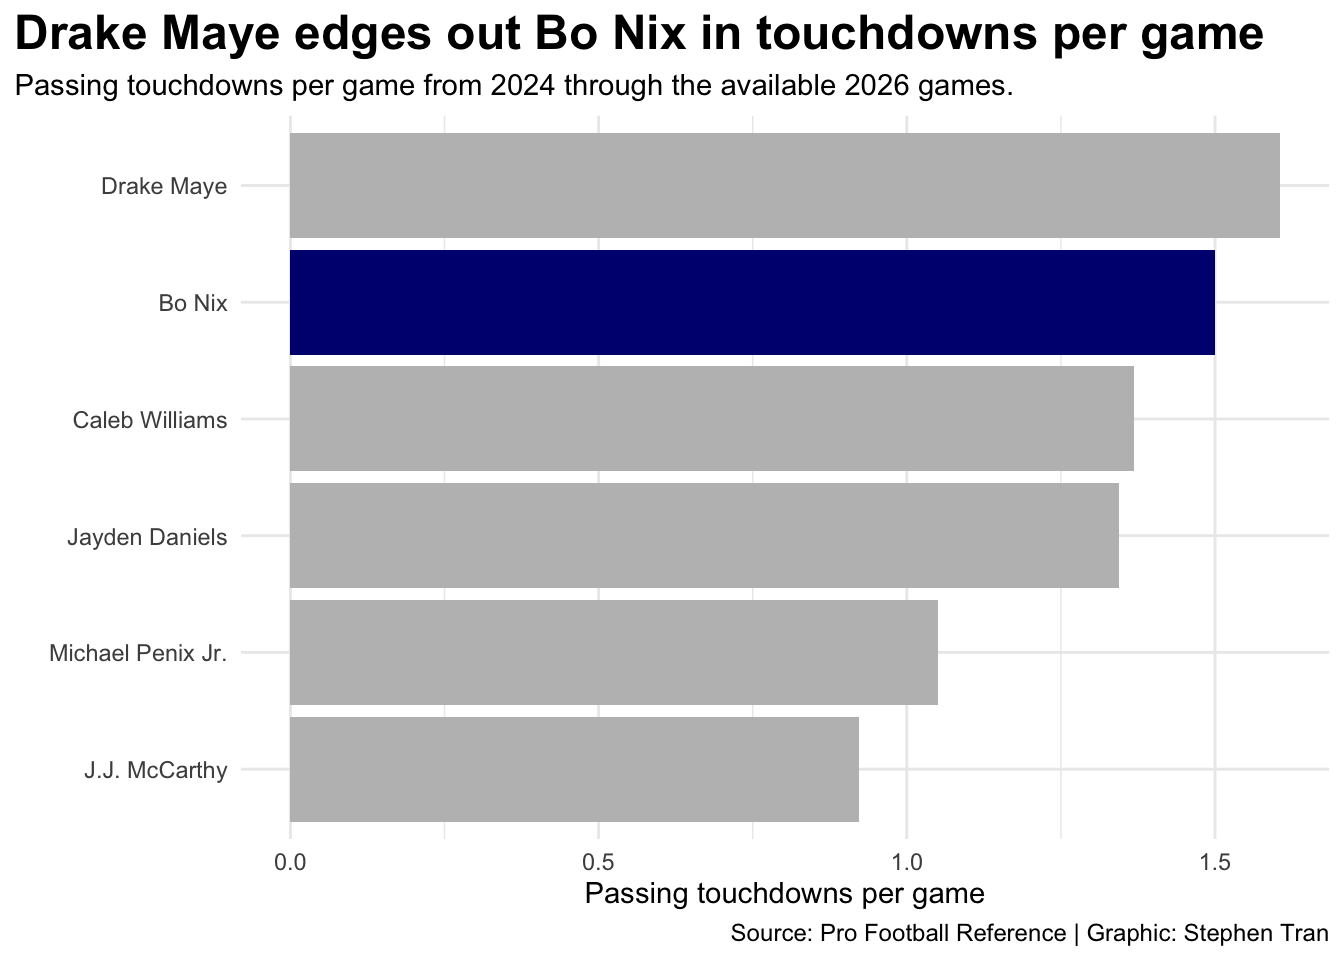
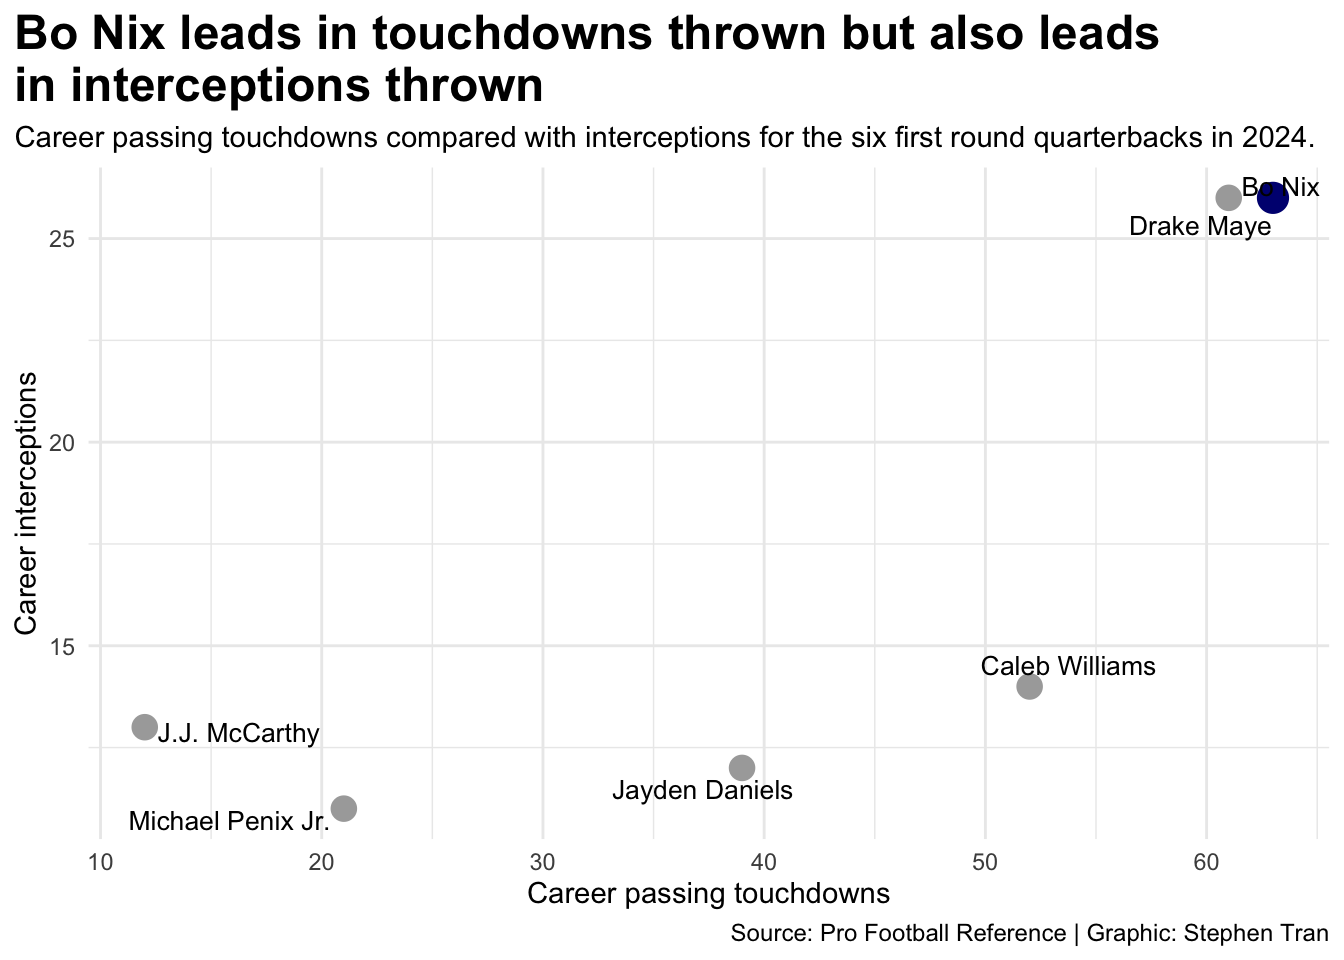
release candiate 1

diff --git a/posts/Bo-Nix-2024-qb-draft-class/index.html b/posts/Bo-Nix-2024-qb-draft-class/index.html
@@ -364,7 +364,11 @@ pre > code.sourceCode > span > a:first-child::before { text-decoration: underlin
 
 
 
-<p>Bo Nix is one of the most polarizing players in the NFL.</p>
+<p>The quarterback position is arguably not only the most important position in football, but the most important position in any major sport. Because of how important the quarterback is to an NFL team, there is heavy pressure on them to win games and play well.</p>
+<p>Ever since Peyton Manning retired after the Broncos victory in Super Bowl 50, the Broncos have gone through 13 different quarterbacks (yes that includes Kendall Hinton who played quarterback after all of the quarterbacks got COVID) before drafting Bo Nix.</p>
+<p>Coming out of college, many draft analysts questioned his age, the amount of short passes he’s thrown in Oregon and his upside. In a draft that was considered deep in the quarterback position, Bo Nix was the last quarterback taken in the first round when the Broncos drafted him with the 12th pick of the 2024 NFL Draft.</p>
+<p>Like the other quarterbacks, Nix has been constantly compared to the other quarterbacks taken in the first round of the 2024 Draft. Caleb Williams, the first overall pick, has flashed his upside in his first year with Ben Johnson as head coach and is now on the Madden 27 cover, Jayden Daniels, the second overall pick, won Offensive Rookie of the Year and his rookie year is considered to be one of the greatest rookie seasons for a quarterback. However, a slight dop in play and injuries in his second year have made people question his longevity. The third overall pick, Drake Maye came second in MVP voting and made the Super Bowl in just his second year although fans point out his historically easy schedule and struggles in the postseason. The Falcons surprised the whole league when they made Michael Penix Jr.&nbsp;the eighth overall pick and the fourth quarterback taken after paying Kirk Cousins. However, inconsistent play in his sophomore season in the NFL led the Falcons to signing Tua Tagovailoa to compete with Penix and his future has been in question despite being the starter in 2026. J.J. McCarthy, the fifth quarterback taken and the tenth overall pick by the Vikings. missed his whole rookie season due to injury and struggled mightily in his first year as starter. He has since been traded to the New York Giants, hoping to revive his career after losing the starting job to Kyler Murray.</p>
+<p>Since entering the NFL, Nix has been one of the most polarizing players. Critics point out how while his arm strength and athleticism is a lot better than they thought, he continues to frequently take checkdowns or short passes rather than being more aggressive and the Broncos offense has been inconsistent. Fans, however, point out his record breaking number of 4th quarter comebacks and his record.</p>
 <div class="cell">
 <details class="code-fold">
 <summary>Code</summary>
@@ -439,7 +443,7 @@ pre > code.sourceCode > span > a:first-child::before { text-decoration: underlin
 <span id="cb5-2"><a href="#cb5-2" aria-hidden="true" tabindex="-1"></a>  <span class="fu">geom_bar</span>(</span>
 <span id="cb5-3"><a href="#cb5-3" aria-hidden="true" tabindex="-1"></a>    <span class="at">data =</span> career,</span>
 <span id="cb5-4"><a href="#cb5-4" aria-hidden="true" tabindex="-1"></a>    <span class="fu">aes</span>(<span class="at">x =</span> <span class="fu">reorder</span>(player, wins), <span class="at">weight =</span> wins),</span>
-<span id="cb5-5"><a href="#cb5-5" aria-hidden="true" tabindex="-1"></a>    <span class="at">fill =</span> <span class="st">"gray"</span></span>
+<span id="cb5-5"><a href="#cb5-5" aria-hidden="true" tabindex="-1"></a>    <span class="at">fill =</span> <span class="st">"darkgrey"</span></span>
 <span id="cb5-6"><a href="#cb5-6" aria-hidden="true" tabindex="-1"></a>  ) <span class="sc">+</span></span>
 <span id="cb5-7"><a href="#cb5-7" aria-hidden="true" tabindex="-1"></a>  <span class="fu">geom_bar</span>(</span>
 <span id="cb5-8"><a href="#cb5-8" aria-hidden="true" tabindex="-1"></a>    <span class="at">data =</span> bo_nix,</span>
@@ -470,6 +474,10 @@ pre > code.sourceCode > span > a:first-child::before { text-decoration: underlin
 </div>
 </div>
 </div>
+<p>No matter how good or bad a quarterback plays, at the end of the day, the only result that matters is whether or not they won. Since entering the NFL, all Bo Nix knows has been winning. From 2024 to week 8 of the 2026 season, Bo Nix has lead the quarterbacks in his draft class with 30 wins and 12 losses. That is 8 more than Drake Maye who has 22. Caleb Williams has a total of 19 wins, Jayden Daniels has 15 wins while Michael Penix and J.J. McCarthy only have 7.</p>
+<p>However, this does not tell the whole story. Despite having more wins than his draft mates, Bo Nix has been the only quarterback out of these 6 to have played every single game since week 1 of his rookie season. Maye, Penix and McCarthy did not start immediately their rookie year (and as mentioned earlier, McCarthy missed his whole rookie year due to injury) while Jayden Daniels missed a large chunk of his sophomore season while Caleb WIlliams missed a few games so far in 2026.</p>
+<p>However, if we break it down to win percentage, Nix leads all of his peers with a win rate of 71.4%. Drake Maye, the closest quarterback in terms of total wins compared to Nix has only won about 59.5% of his starts, a steep drop off.</p>
+<p>Critics point out that despite Bo Nix’s historic success to start his career, his offenses have been inconsistent and mediocre. Critics instead point out to the talent on the roster that contributed to Bo Nix’s wins and that the Broncos defense has bailed out Nix several times in his career. However, fans point out that Nix is one of, if not the clutchest quarterback in the NFL with all of his 4th quarter comebacks.</p>
 <div class="cell">
 <details class="code-fold">
 <summary>Code</summary>
@@ -477,7 +485,7 @@ pre > code.sourceCode > span > a:first-child::before { text-decoration: underlin
 <span id="cb6-2"><a href="#cb6-2" aria-hidden="true" tabindex="-1"></a>  <span class="fu">geom_point</span>(</span>
 <span id="cb6-3"><a href="#cb6-3" aria-hidden="true" tabindex="-1"></a>    <span class="at">data =</span> career,</span>
 <span id="cb6-4"><a href="#cb6-4" aria-hidden="true" tabindex="-1"></a>    <span class="fu">aes</span>(<span class="at">x =</span> touchdowns, <span class="at">y =</span> interceptions),</span>
-<span id="cb6-5"><a href="#cb6-5" aria-hidden="true" tabindex="-1"></a>    <span class="at">color =</span> <span class="st">"gray"</span>,</span>
+<span id="cb6-5"><a href="#cb6-5" aria-hidden="true" tabindex="-1"></a>    <span class="at">color =</span> <span class="st">"darkgrey"</span>,</span>
 <span id="cb6-6"><a href="#cb6-6" aria-hidden="true" tabindex="-1"></a>    <span class="at">size =</span> <span class="dv">4</span></span>
 <span id="cb6-7"><a href="#cb6-7" aria-hidden="true" tabindex="-1"></a>  ) <span class="sc">+</span></span>
 <span id="cb6-8"><a href="#cb6-8" aria-hidden="true" tabindex="-1"></a>  <span class="fu">geom_point</span>(</span>
@@ -496,7 +504,7 @@ pre > code.sourceCode > span > a:first-child::before { text-decoration: underlin
 <span id="cb6-21"><a href="#cb6-21" aria-hidden="true" tabindex="-1"></a>    <span class="at">size =</span> <span class="fl">3.5</span></span>
 <span id="cb6-22"><a href="#cb6-22" aria-hidden="true" tabindex="-1"></a>  ) <span class="sc">+</span></span>
 <span id="cb6-23"><a href="#cb6-23" aria-hidden="true" tabindex="-1"></a>  <span class="fu">labs</span>(</span>
-<span id="cb6-24"><a href="#cb6-24" aria-hidden="true" tabindex="-1"></a>    <span class="at">title =</span> <span class="st">"Bo Nix leads in touchdowns thrown but also leads in interceptions thrown"</span>,</span>
+<span id="cb6-24"><a href="#cb6-24" aria-hidden="true" tabindex="-1"></a>    <span class="at">title =</span> <span class="st">"Bo Nix leads in touchdowns thrown but also leads</span><span class="sc">\n</span><span class="st">in interceptions thrown"</span>,</span>
 <span id="cb6-25"><a href="#cb6-25" aria-hidden="true" tabindex="-1"></a>    <span class="at">subtitle =</span> <span class="st">"Career passing touchdowns compared with interceptions for the six first round quarterbacks in 2024."</span>,</span>
 <span id="cb6-26"><a href="#cb6-26" aria-hidden="true" tabindex="-1"></a>    <span class="at">x =</span> <span class="st">"Career passing touchdowns"</span>,</span>
 <span id="cb6-27"><a href="#cb6-27" aria-hidden="true" tabindex="-1"></a>    <span class="at">y =</span> <span class="st">"Career interceptions"</span>,</span>
@@ -505,7 +513,7 @@ pre > code.sourceCode > span > a:first-child::before { text-decoration: underlin
 <span id="cb6-30"><a href="#cb6-30" aria-hidden="true" tabindex="-1"></a>  <span class="fu">theme_minimal</span>() <span class="sc">+</span></span>
 <span id="cb6-31"><a href="#cb6-31" aria-hidden="true" tabindex="-1"></a>  <span class="fu">theme</span>(</span>
 <span id="cb6-32"><a href="#cb6-32" aria-hidden="true" tabindex="-1"></a>    <span class="at">plot.title.position =</span> <span class="st">"plot"</span>,</span>
-<span id="cb6-33"><a href="#cb6-33" aria-hidden="true" tabindex="-1"></a>    <span class="at">plot.title =</span> <span class="fu">element_text</span>(<span class="at">size =</span> <span class="fl">13.5</span>, <span class="at">face =</span> <span class="st">"bold"</span>),</span>
+<span id="cb6-33"><a href="#cb6-33" aria-hidden="true" tabindex="-1"></a>    <span class="at">plot.title =</span> <span class="fu">element_text</span>(<span class="at">size =</span> <span class="dv">18</span>, <span class="at">face =</span> <span class="st">"bold"</span>),</span>
 <span id="cb6-34"><a href="#cb6-34" aria-hidden="true" tabindex="-1"></a>    <span class="at">plot.subtitle =</span> <span class="fu">element_text</span>(<span class="at">size =</span> <span class="dv">11</span>),</span>
 <span id="cb6-35"><a href="#cb6-35" aria-hidden="true" tabindex="-1"></a>    <span class="at">plot.caption =</span> <span class="fu">element_text</span>(<span class="at">size =</span> <span class="dv">9</span>)</span>
 <span id="cb6-36"><a href="#cb6-36" aria-hidden="true" tabindex="-1"></a>  )</span></code></pre></div><button title="Copy to Clipboard" class="code-copy-button"><i class="bi"></i></button></div>
@@ -513,11 +521,14 @@ pre > code.sourceCode > span > a:first-child::before { text-decoration: underlin
 <div class="cell-output-display">
 <div>
 <figure class="figure">
-<p><img src="index_files/figure-html/unnamed-chunk-6-1.png" class="img-fluid figure-img" width="672"></p>
+<p><img src="index_files/figure-html/unnamed-chunk-7-1.png" class="img-fluid figure-img" width="672"></p>
 </figure>
 </div>
 </div>
 </div>
+<p>When you look at the box score of a quarterback, most people immediately look at the amount of touchdowns and interceptions thrown. Nix leads the 2024 quarterback class with 63 career touchdown passes. Maye is slightly behind him with 61 touchdown passes. Caleb Williams is in third with 52 touchdown passes, Daniels has 39, Penix has 21 while McCarthy only has 12.</p>
+<p>However, while Nix and Maye have led the class in touchdown passes, they both are tied with the most interceptions thrown with 26. Caleb Williams on the other hand has thrown only 14 interceptions. This raises questions about how much Nix’s total production reflects his ability and decision making compared to his playing time. Like his win total, Nix has had more opportunities to throw more touchdowns and interceptions because he has played more games than the other quarterbacks.</p>
+<p>Williams is the most interesting comparison to Nix. Although Williams has thrown 11 fewer touchdowns than Nix, he has also thrown 12 fewer interceptions. This suggests that Williams is better at protecting the football while producing touchdowns.</p>
 <div class="cell">
 <details class="code-fold">
 <summary>Code</summary>
@@ -525,7 +536,7 @@ pre > code.sourceCode > span > a:first-child::before { text-decoration: underlin
 <span id="cb7-2"><a href="#cb7-2" aria-hidden="true" tabindex="-1"></a>  <span class="fu">geom_bar</span>(</span>
 <span id="cb7-3"><a href="#cb7-3" aria-hidden="true" tabindex="-1"></a>    <span class="at">data =</span> career,</span>
 <span id="cb7-4"><a href="#cb7-4" aria-hidden="true" tabindex="-1"></a>    <span class="fu">aes</span>(<span class="at">x =</span> <span class="fu">reorder</span>(player, td_per_game), <span class="at">weight =</span> td_per_game),</span>
-<span id="cb7-5"><a href="#cb7-5" aria-hidden="true" tabindex="-1"></a>    <span class="at">fill =</span> <span class="st">"gray"</span></span>
+<span id="cb7-5"><a href="#cb7-5" aria-hidden="true" tabindex="-1"></a>    <span class="at">fill =</span> <span class="st">"darkgrey"</span></span>
 <span id="cb7-6"><a href="#cb7-6" aria-hidden="true" tabindex="-1"></a>  ) <span class="sc">+</span></span>
 <span id="cb7-7"><a href="#cb7-7" aria-hidden="true" tabindex="-1"></a>  <span class="fu">geom_bar</span>(</span>
 <span id="cb7-8"><a href="#cb7-8" aria-hidden="true" tabindex="-1"></a>    <span class="at">data =</span> bo_nix,</span>
@@ -551,11 +562,19 @@ pre > code.sourceCode > span > a:first-child::before { text-decoration: underlin
 <div class="cell-output-display">
 <div>
 <figure class="figure">
-<p><img src="index_files/figure-html/unnamed-chunk-7-1.png" class="img-fluid figure-img" width="672"></p>
+<p><img src="index_files/figure-html/unnamed-chunk-8-1.png" class="img-fluid figure-img" width="672"></p>
 </figure>
 </div>
 </div>
 </div>
+<p>Because the 6 other quarterbacks have played different amounts of games compared to each other, a great way of showing off their production is the amount of touchdown passes each quarterback averages per game.</p>
+<p>This is where Drake Maye takes the lead. Maye has averaged about 1.61 passing touchdowns per game since entering the league. This is slightly ahead of Nix who has averaged with 1.5 touchdowns per game. Williams is in third with 1.37 and Daniels has 1.34. Penix only averages 1.05 touchdowns per game while J.J. McCarthy averages 0.92 touchdowns a game which means he averages less than a single passing touchdown per game.</p>
+<p>Maye stands out even more when you take into account that he did not begin his rookie season as the starting quarterback for the Patriots which means he has played fewer games than NIx but nearly matched his total passing touchdowns. However, the difference between both quarterbacks is relatively small.</p>
+<p>So, has Bo Nix been the most successful quarterback taken in the first round of the 2024 NFL Draft?</p>
+<p>If success is based on winning games, Nix has by far the strongest argument. Even though being the last quarterback taken in the first round, he has recorded more wins than any off his classmates and leads them all with passing touchdowns.</p>
+<p>However, Maye has averaged more passing touchdowns per game and it is clear that Williams has been the best at limiting turnovers while still finding ways to score through the air.</p>
+<p>It is also important to take note that Nix has benefited from starting more games than the other quarterbacks. As the old saying goes, the best ability is availability and Nix has played every regular season game for the Broncos since day 1.</p>
+<p>In conclusion, it is difficult to evaluate whether or not Nix is the most successful quarterback from his draft class so far, especially with players like Maye and Williams putting up impressive numbers and Jayden Daniels having the opportunity to flash his upside since his incredible rookie year. However, it is clear that Nix has been unfairly criticized, especially when the numbers are a lot closer than it appears.</p>
 
 
 

diff --git a/index.html b/index.html
@@ -378,7 +378,7 @@ window.Quarto = {
 
 <div class="quarto-listing quarto-listing-container-default" id="listing-listing">
 <div class="list quarto-listing-default">
-<div class="quarto-post image-right" data-index="0" data-categories="TkZMJTJDRm9vdGJhbGwlMkNRdWFydGVyYmFja3M=" data-listing-date-sort="1794549600000" data-listing-file-modified-sort="1794527236756" data-listing-date-modified-sort="NaN" data-listing-reading-time-sort="5" data-listing-word-count-sort="829">
+<div class="quarto-post image-right" data-index="0" data-categories="TkZMJTJDRm9vdGJhbGwlMkNRdWFydGVyYmFja3M=" data-listing-date-sort="1794549600000" data-listing-file-modified-sort="1794553052523" data-listing-date-modified-sort="NaN" data-listing-reading-time-sort="11" data-listing-word-count-sort="2098">
 <div class="thumbnail"><a href="./posts/Bo-Nix-2024-qb-draft-class/index.html" class="no-external">
 
 <img loading="lazy" src="./posts/Bo-Nix-2024-qb-draft-class/image.png" class="thumbnail-image">
@@ -398,7 +398,7 @@ window.Quarto = {
 
 </div>
 <div class="delink listing-description"><a href="./posts/Bo-Nix-2024-qb-draft-class/index.html" class="no-external">
-Bo Nix is one of the most polarizing players in the NFL.
+The quarterback position is arguably not only the most important position in football, but the most important position in any major sport. Because of how important the…
 </a></div>
 </div>
 <div class="metadata">
